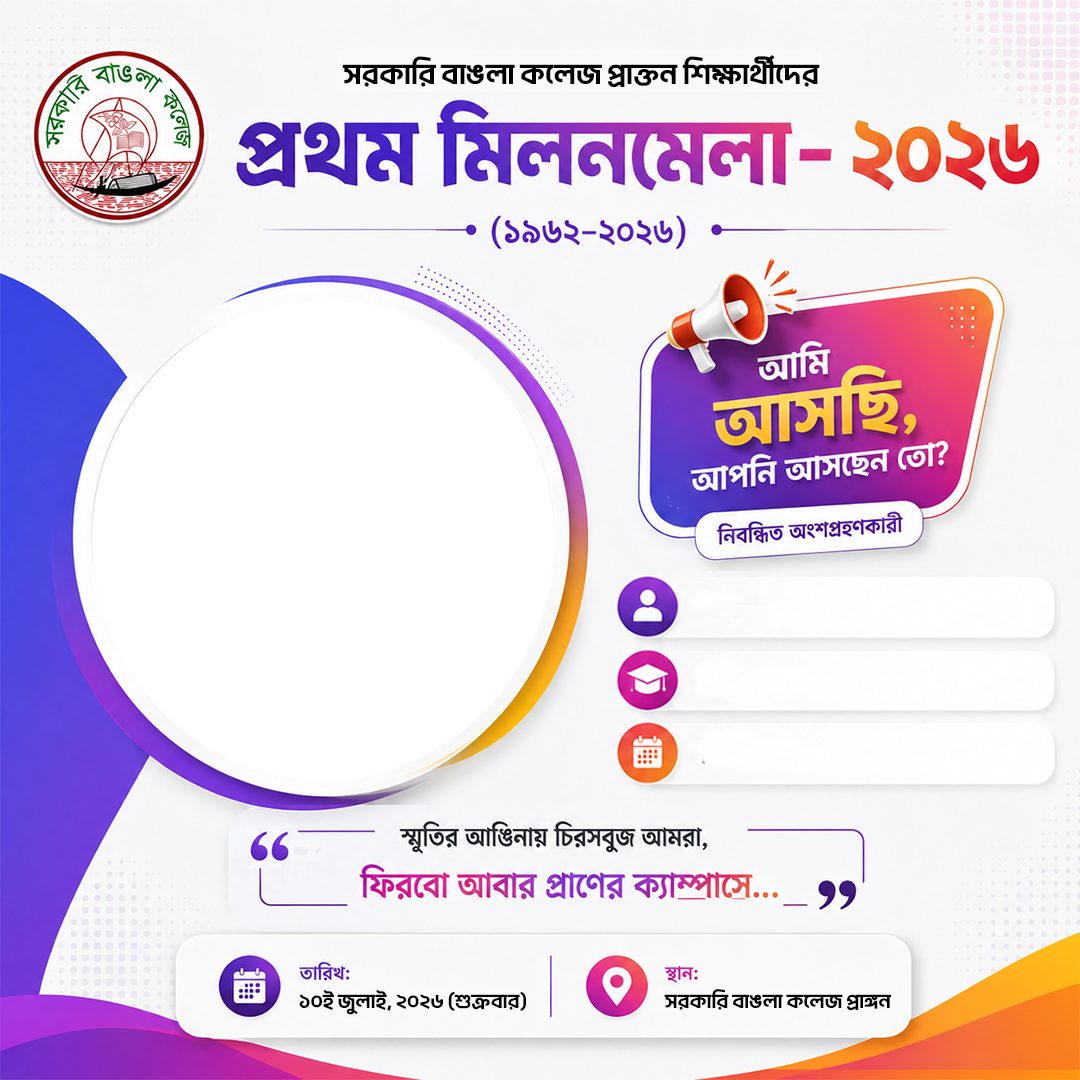
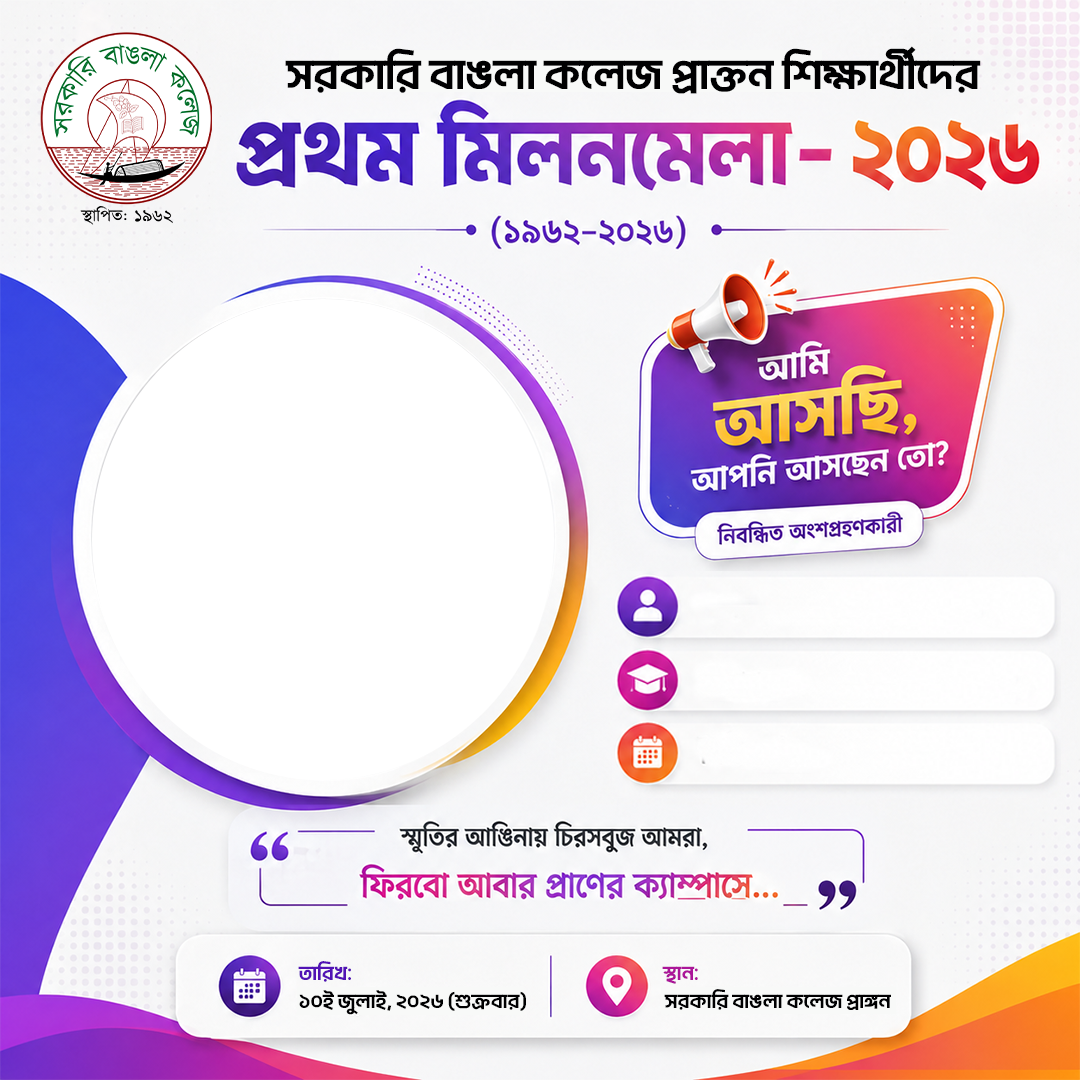
credit added

diff --git a/app/layout.tsx b/app/layout.tsx
@@ -13,8 +13,8 @@ const geistMono = Geist_Mono({
 });
 
 export const metadata: Metadata = {
-  title: "Create Next App",
-  description: "Generated by create next app",
+  title: "সরকারি বাঙলা কলেজ প্রাক্তন শিক্ষার্থীদের প্রথম মিলনমেলা-২০২৬ - ফটোকার্ড",
+  description: "সরকারি বাংলা কলেজ প্রাক্তন শিক্ষার্থীদের প্রথম মিলনমেলা-২০২৬ এর ফটোকার্ড তৈরি করুন।",
 };
 
 export default function RootLayout({

diff --git a/app/page.tsx b/app/page.tsx
@@ -363,7 +363,7 @@ ctx.fillText(session || 'সেশন', textStartX, pill3Y);
         <div className="card">
 
           <div>
-            <p className="page-title">সরকারি বাঙলা কলেজ প্রথম মিলনমেলা</p>
+            <p className="page-title">সরকারি বাঙলা কলেজ প্রাক্তন শিক্ষার্থীদের প্রথম মিলনমেলা-২০২৬</p>
             <p className="page-sub">ফটোকার্ড জেনারেটর</p>
           </div>
 
